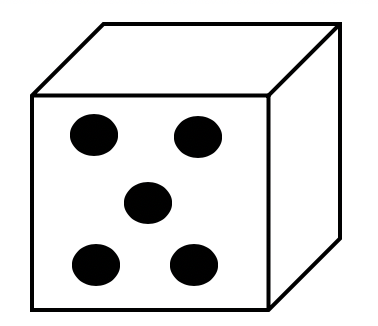
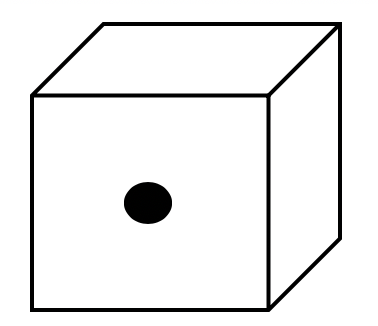
updated dice images

diff --git a/DiceView.py b/DiceView.py
@@ -14,7 +14,7 @@ dice = {}
 
 class DieView:
     def __init__(self, master, value):
-        self.image = PhotoImage(file="Die6.png")
+        self.image = PhotoImage(file="Die5.png")
         self.view = tk.Checkbutton(master, image=self.image)
 
     def update_value(self, value):
@@ -26,7 +26,7 @@ class DiceView:
     def __init__(self, master):
         self.dice = []
         for die_index in range(5):
-            self.dice.append(DieView(master, 6))
+            self.dice.append(DieView(master, 5))
             self.dice[die_index].view.pack()
         self.btn_roll = tk.Button(master, text="Roll Dice")
         self.btn_roll.pack()
